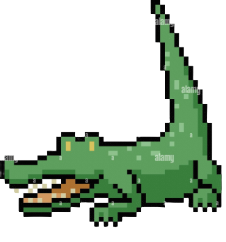
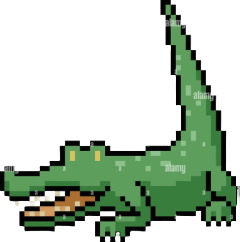
Character on main game now changes based on selection.

Changed region(s): [[0.0, 0.0, 1.0, 1.0]]

diff --git a/source/core/src/main/com/csse3200/game/screens/MainGameScreen.java b/source/core/src/main/com/csse3200/game/screens/MainGameScreen.java
@@ -6,6 +6,7 @@ import com.badlogic.gdx.scenes.scene2d.Stage;
 import com.csse3200.game.GdxGame;
 import com.csse3200.game.areas.ForestGameArea;
 import com.csse3200.game.areas.terrain.TerrainFactory;
+import com.csse3200.game.components.animal.AnimalSelectionActions;
 import com.csse3200.game.components.maingame.MainGameActions;
 import com.csse3200.game.entities.Entity;
 import com.csse3200.game.entities.EntityService;
@@ -34,7 +35,8 @@ import org.slf4j.LoggerFactory;
  */
 public class MainGameScreen extends ScreenAdapter {
   private static final Logger logger = LoggerFactory.getLogger(MainGameScreen.class);
-  private static final String[] mainGameTextures = {"images/heart.png"};
+  private static final String[] mainGameTextures = {"images/heart.png",
+          AnimalSelectionActions.getSelectedAnimalImagePath()};
   private static final Vector2 CAMERA_POSITION = new Vector2(7.5f, 7.5f);
 
   private final GdxGame game;

diff --git a/source/core/src/main/com/csse3200/game/components/animal/AnimalSelectionActions.java b/source/core/src/main/com/csse3200/game/components/animal/AnimalSelectionActions.java
@@ -35,9 +35,9 @@ public class AnimalSelectionActions {
         Image[] animalImages = display.getAnimalImages();
         TextButton[] animalButtons = display.getAnimalButtons();
         String[] animalImagePaths = {
-                "images/animal1.png",
-                "images/animal2.png",
-                "images/animal3.png"
+                "images/dog.png",
+                "images/croc.png",
+                "images/bird.png"
         };
 
 

diff --git a/source/core/src/main/com/csse3200/game/components/animal/AnimalSelectionDisplay.java b/source/core/src/main/com/csse3200/game/components/animal/AnimalSelectionDisplay.java
@@ -29,9 +29,9 @@ public class AnimalSelectionDisplay {
         stage.addActor(mainTable);
 
         String[] animalImagePaths = {
-                "images/animal1.png",
-                "images/animal2.png",
-                "images/animal3.png"
+                "images/dog.png",
+                "images/croc.png",
+                "images/bird.png"
         };
 
         for (int i = 0; i < 3; i++) {
